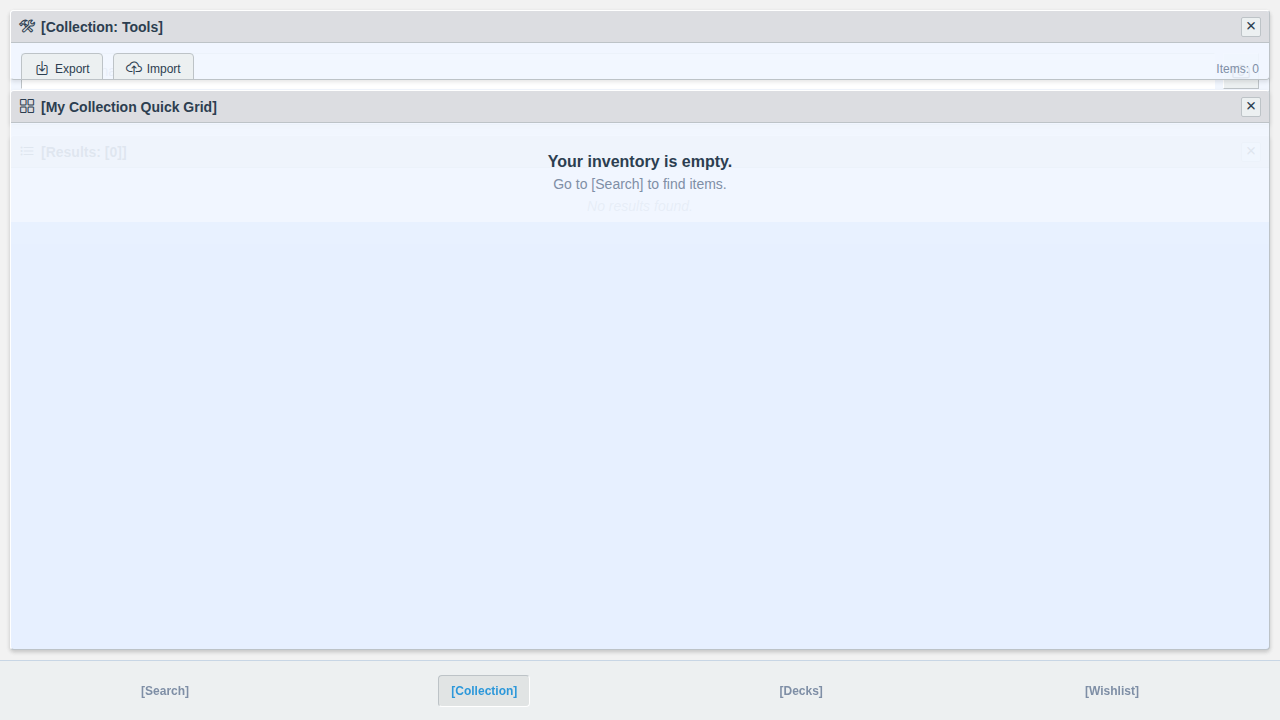
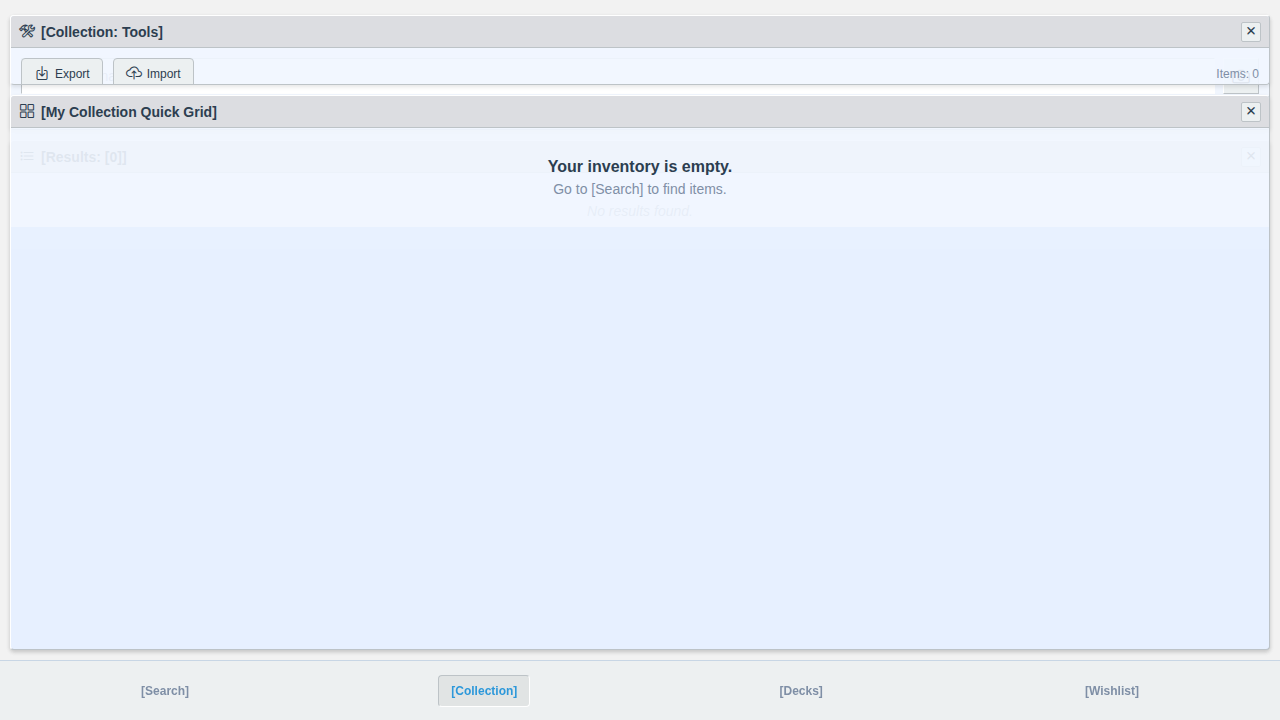
Refactor UI to Early 2000s MMO / Ragnarok Online Aesthetic
- Implemented "Dreamy White" theme with pastel blue/grey palette.
- Created `MMOWindow`, `InventorySlot`, and `MMOCommandBar` components.
- Refactored `CollectionScreen`, `DeckDetailScreen`, `DecksScreen`, `SearchScreen`, and `CardDetailScreen` to use the new grid and window system.
- Added top padding to screens to prevent status bar clipping on devices like Pixel 7 Pro.
- Fixed `FlatList` key duplication issues in `CollectionScreen`.
- Updated `App.js` with a global gradient background.

Changed region(s): [[0.0, 0.0306, 1.0, 0.1833], [0.4062, 0.2139, 0.5938, 0.275]]

diff --git a/src/screens/CollectionScreen.tsx b/src/screens/CollectionScreen.tsx
@@ -145,7 +145,7 @@ export default function CollectionScreen() {
         ) : (
             <FlatList
             data={collection}
-            keyExtractor={(item) => item.id}
+            keyExtractor={(item, index) => `${item.id}-${index}`} // Fix key uniqueness
             renderItem={renderItem}
             numColumns={5} // 5 slots wide like classic MMO
             contentContainerStyle={styles.listContent}
@@ -162,6 +162,7 @@ const styles = StyleSheet.create({
   container: {
     flex: 1,
     padding: 10,
+    paddingTop: 15, // Additional top padding for status bar safety
   },
   toolsWindow: {
       marginBottom: 10,

diff --git a/src/screens/SearchScreen.tsx b/src/screens/SearchScreen.tsx
@@ -110,7 +110,7 @@ export default function SearchScreen() {
         ) : (
             <FlatList
                 data={cards}
-                keyExtractor={(item) => item.id.toString()}
+                keyExtractor={(item) => item.id.toString()} // Assuming ID is unique enough for search results
                 renderItem={renderItem}
                 contentContainerStyle={styles.listContent}
                 showsVerticalScrollIndicator={false}
@@ -126,6 +126,7 @@ const styles = StyleSheet.create({
   container: {
     flex: 1,
     padding: 10,
+    paddingTop: 15,
   },
   searchWindow: {
       marginBottom: 10,

diff --git a/src/screens/DecksScreen.tsx b/src/screens/DecksScreen.tsx
@@ -159,6 +159,7 @@ const styles = StyleSheet.create({
   container: {
     flex: 1,
     padding: 10,
+    paddingTop: 15,
   },
   window: {
       flex: 1,
